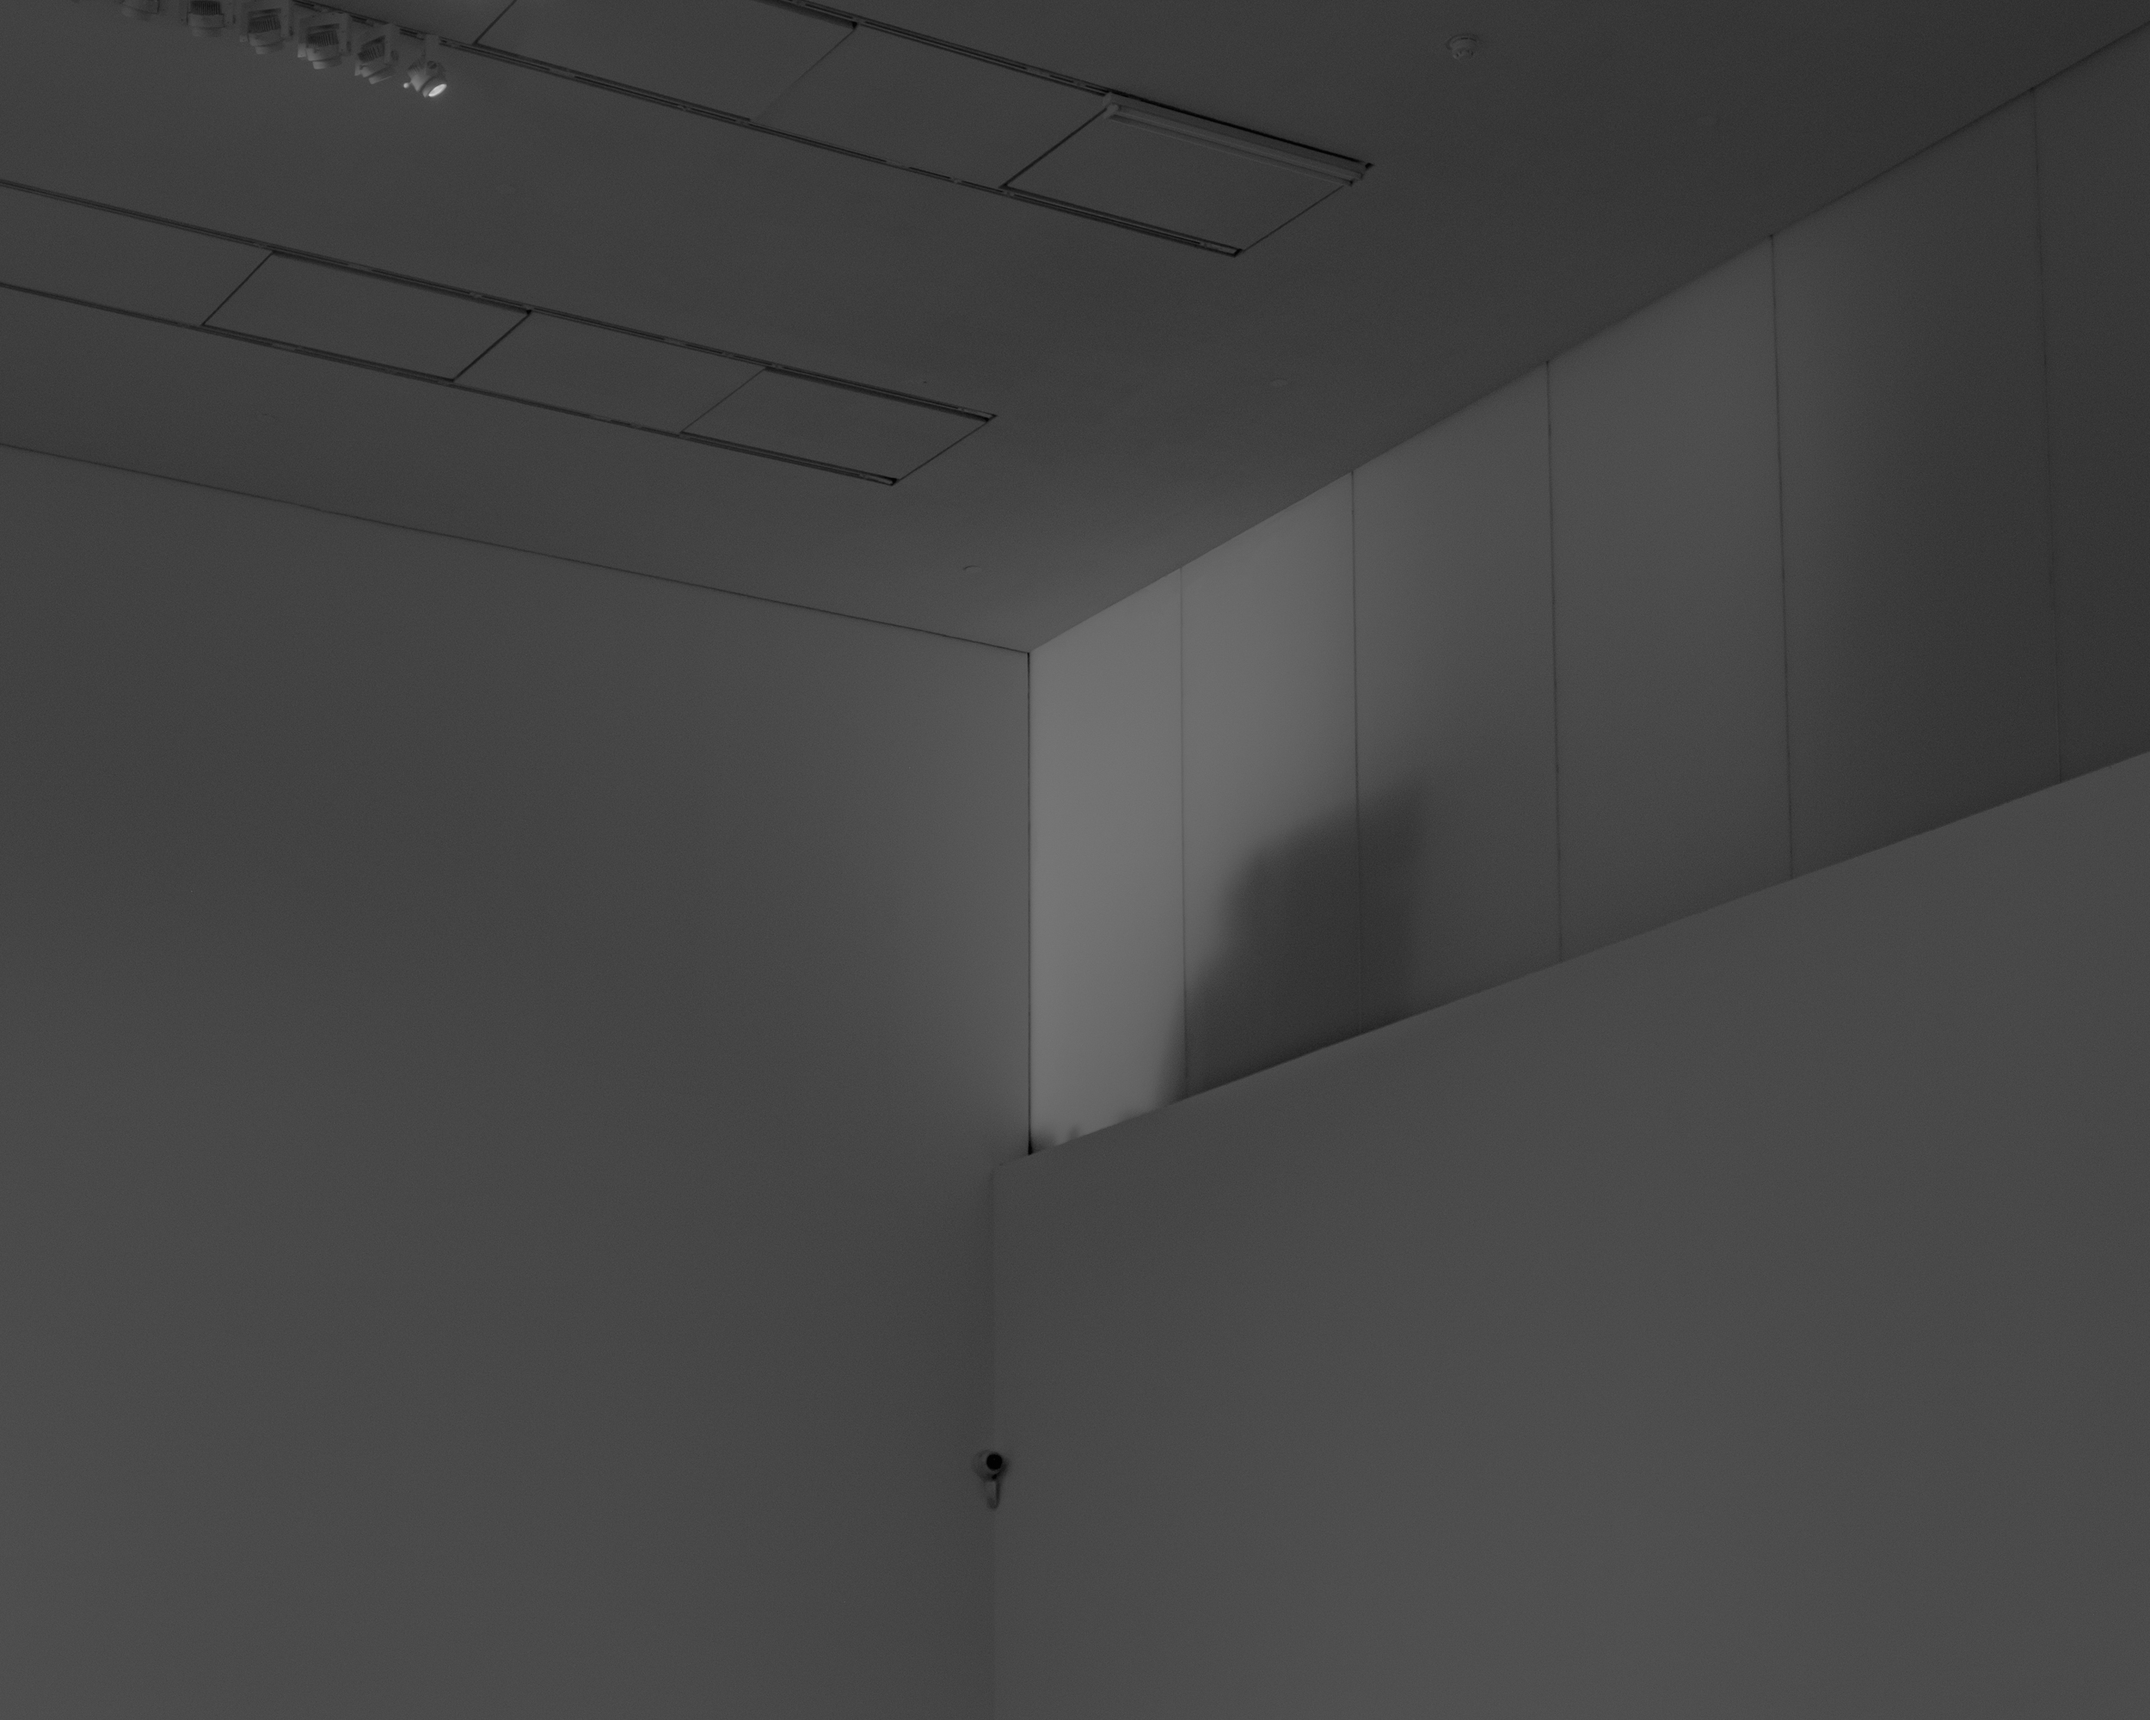
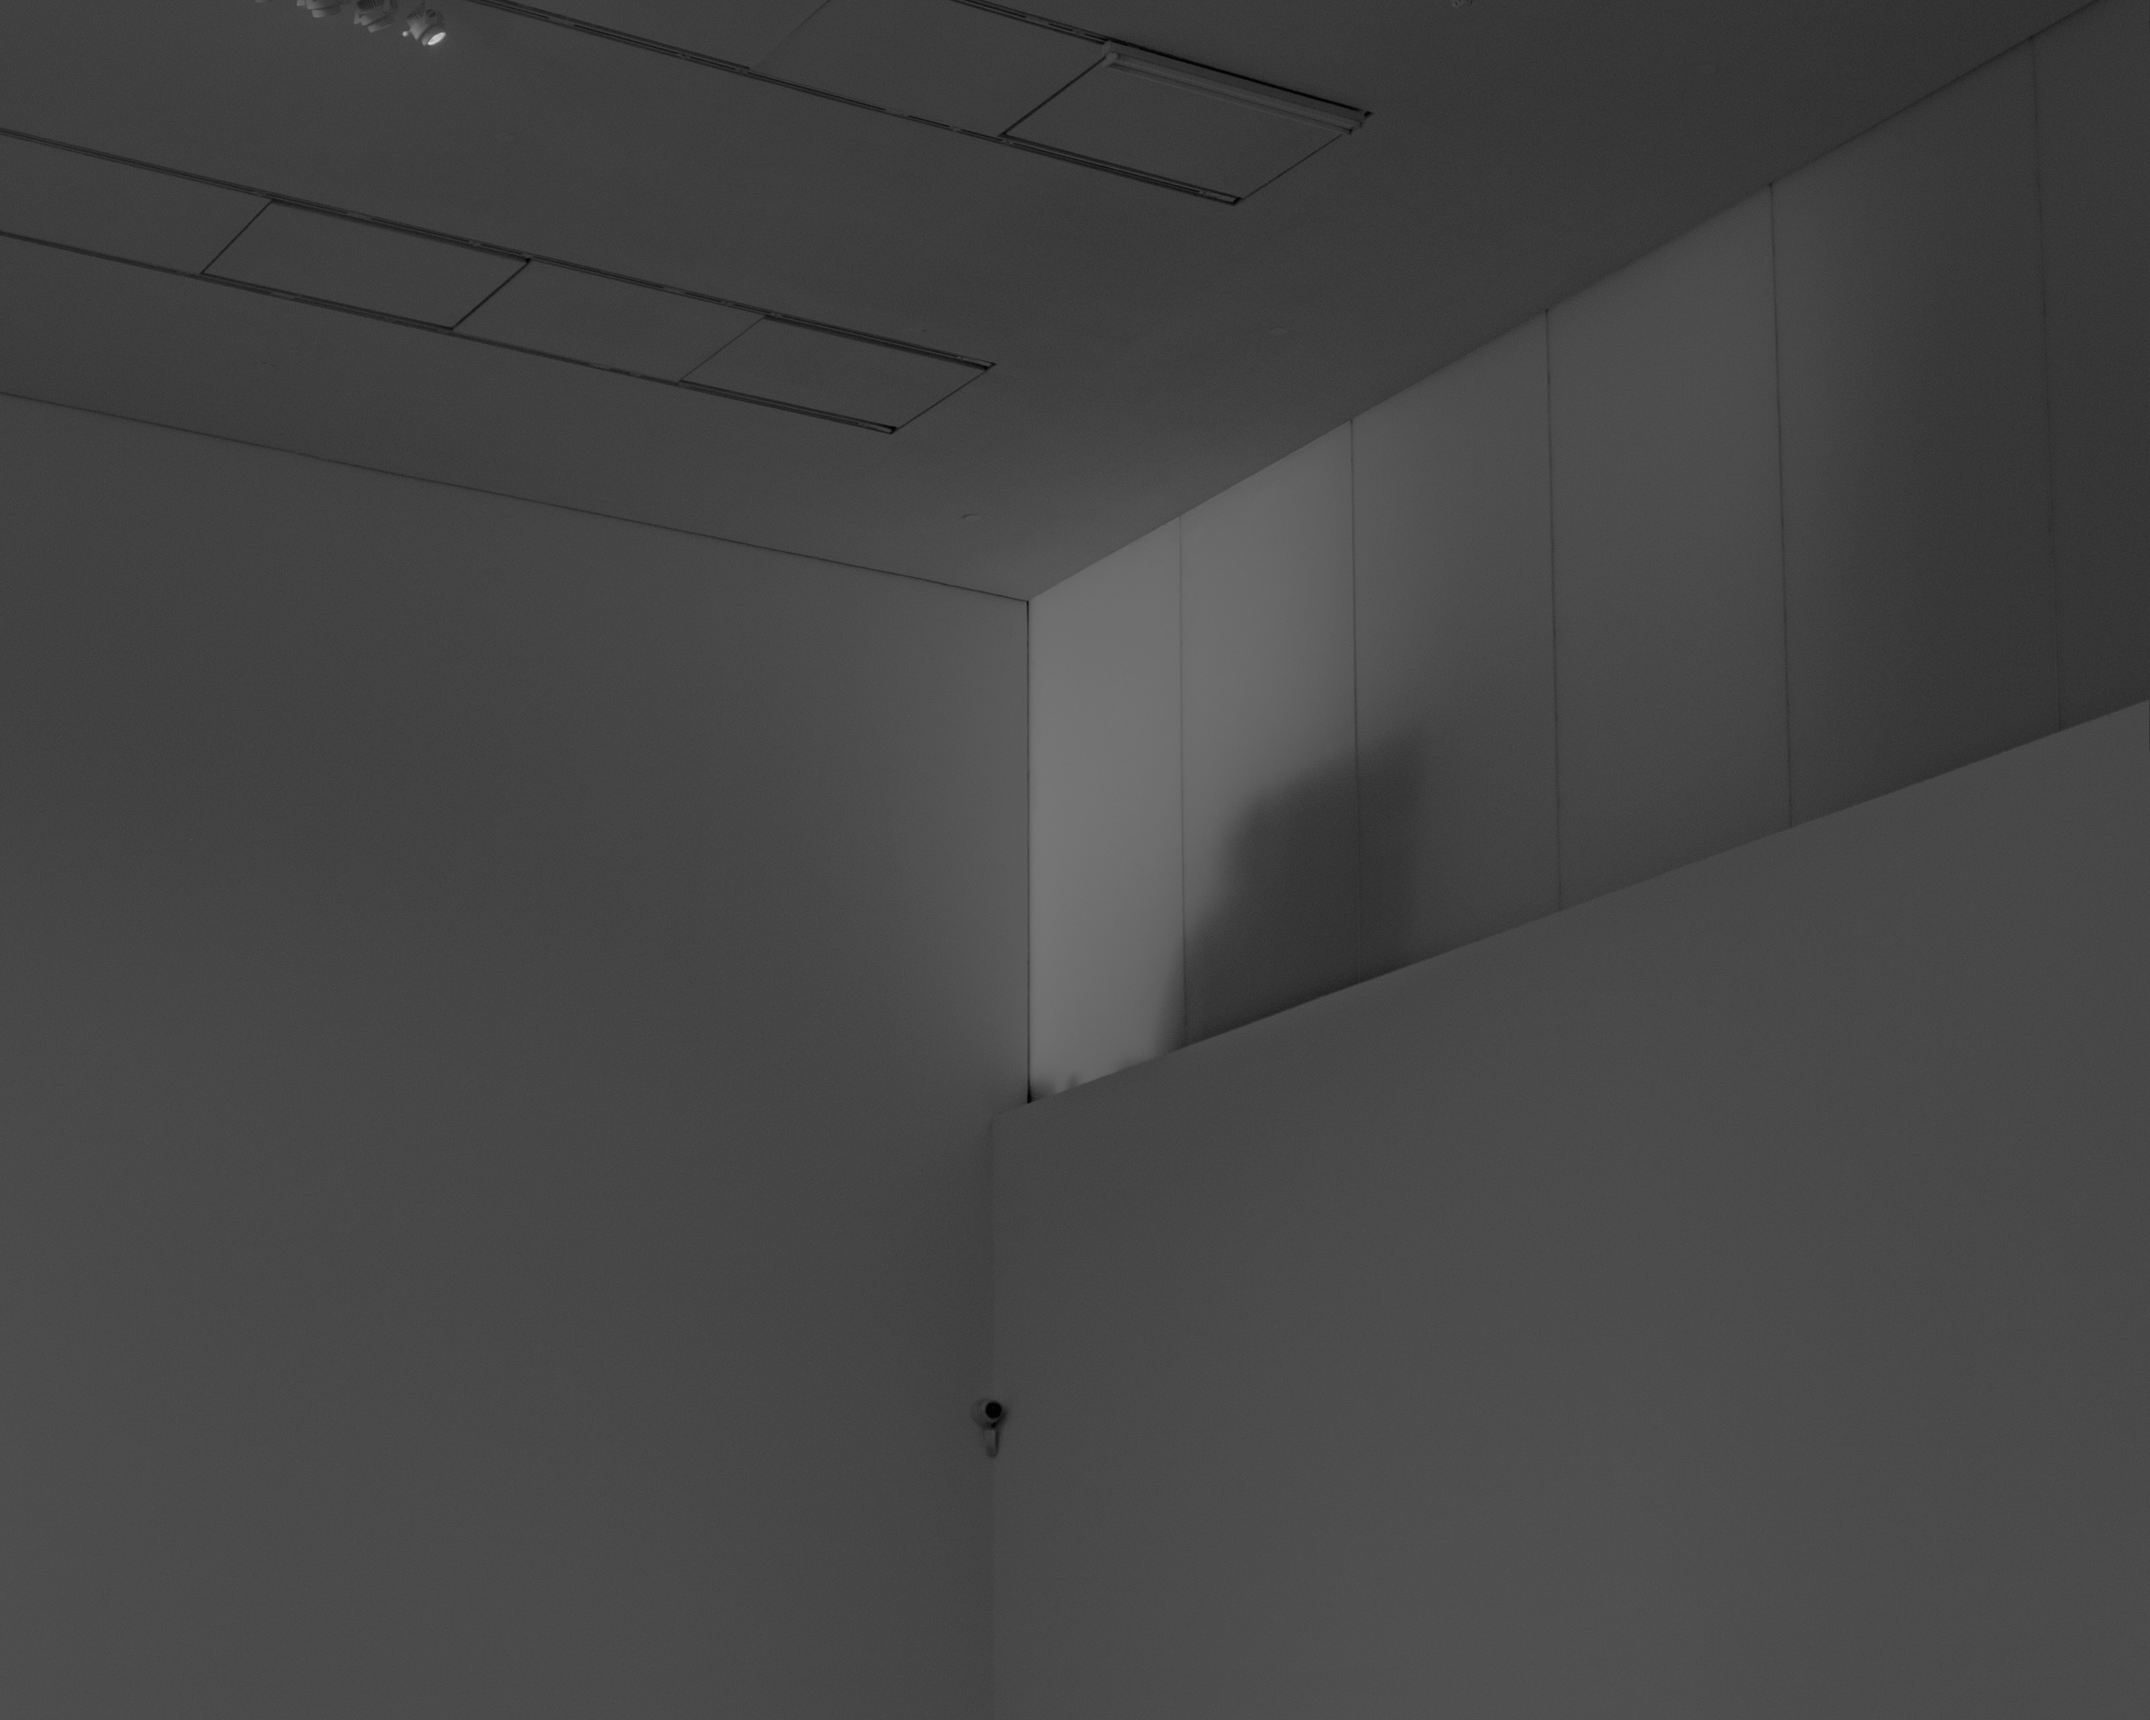
ver18.2

diff --git a/data.js b/data.js
@@ -36,11 +36,16 @@ const PROJECT_DATA = {
         { project: "Landscape, Asia", id: "srilanka-3386", src: "images/Personal/Personal_SriLanka-3386.jpg", cap: "Landscape, Asia-012" },
         { project: "Landscape, Asia", id: "srilanka-3345", src: "images/Personal/Personal_SriLanka-3345.jpg", cap: "Landscape, Asia-013" },
 
-        { project: "Landscape, Europe", id: "germany-4653", src: "images/Personal/Germany-4653.jpg", cap: "Landscape, Europe-001" },
         { project: "Landscape, Europe", id: "germany-4667", src: "images/Personal/Germany-4667.jpg", cap: "Architecture, Europe-001" },
         { project: "Landscape, Europe", id: "germany-4686", src: "images/Personal/Germany-4686.jpg", cap: "Architecture, Europe-002" },
         { project: "Landscape, Europe", id: "germany-4699", src: "images/Personal/Germany-4699.jpg", cap: "Architecture, Europe-003" },
+        { project: "Landscape, Europe", id: "germany-4699", src: "images/Personal/UK-4309-002.jpg", cap: "Architecture, Europe-004" },
+        { project: "Landscape, Europe", id: "germany-4699", src: "images/Personal/UK-4331-004.jpg", cap: "Architecture, Europe-005" },
+        { project: "Landscape, Europe", id: "germany-4699", src: "images/Personal/UK-4333-005.jpg", cap: "Architecture, Europe-006" },
+        { project: "Landscape, Europe", id: "germany-4699", src: "images/Personal/UK-4342-006.jpg", cap: "Architecture, Europe-007" },
+        { project: "Landscape, Europe", id: "germany-4699", src: "images/Personal/UK-4357-007.jpg", cap: "Architecture, Europe-008" },
 
+        { project: "Landscape, Europe", id: "germany-4653", src: "images/Personal/Germany-4653.jpg", cap: "Landscape, Europe-001" },
         { project: "Landscape, Europe", id: "UK-4389", src: "images/Personal/UK-4389.jpg", cap: "Landscape, Europe-002" },
         { project: "Landscape, Europe", id: "UK-4409", src: "images/Personal/UK-4409.jpg", cap: "Landscape, Europe-003" },
         { project: "Landscape, Europe", id: "UK-4416", src: "images/Personal/UK-4416.jpg", cap: "Landscape, Europe-004" },
@@ -50,14 +55,35 @@ const PROJECT_DATA = {
         { project: "Landscape, Europe", id: "UK-4397", src: "images/Personal/UK-4397.jpg", cap: "Landscape, Europe-008" },
         { project: "Landscape, Europe", id: "UK-4439", src: "images/Personal/UK-4439.jpg", cap: "Landscape, Europe-009" },
         { project: "Landscape, Europe", id: "UK-4490", src: "images/Personal/UK-4490.jpg", cap: "Landscape, Europe-010" },
-        { project: "Landscape, Europe", id: "UK-4496", src: "images/Personal/UK-4496.jpg", cap: "Landscape, Europe-011" }
+        { project: "Landscape, Europe", id: "UK-4386", src: "images/Personal/UK-4386-008.jpg", cap: "Landscape, Europe-011" },
+
+        { project: "Landscape, Japan", id: "Kamikouchi-0005", src: "images/Personal/Kamikouchi-0005-020.jpg", cap: "Landscape, Japan-001" },
+        { project: "Landscape, Japan", id: "Kamikouchi-0013", src: "images/Personal/Kamikouchi-0013-021.jpg", cap: "Landscape, Japan-002" },
+        { project: "Landscape, Japan", id: "Kamikouchi-9583", src: "images/Personal/Kamikouchi-9583-003.jpg", cap: "Landscape, Japan-003" },
+        { project: "Landscape, Japan", id: "Kamikouchi-9656", src: "images/Personal/Kamikouchi-9656-005.jpg", cap: "Landscape, Japan-004" },
+        { project: "Landscape, Japan", id: "Kamikouchi-9675", src: "images/Personal/Kamikouchi-9675-009.jpg", cap: "Landscape, Japan-005" },
+        { project: "Landscape, Japan", id: "Kamikouchi-9713", src: "images/Personal/Kamikouchi-9713-014.jpg", cap: "Landscape, Japan-006" },
+        { project: "Landscape, Japan", id: "Kamikouchi-4789", src: "images/Personal/Kirigamine-4789-004.jpg", cap: "Landscape, Japan-007" },
+        { project: "Landscape, Japan", id: "Kamikouchi-4830", src: "images/Personal/Kirigamine-4830-006.jpg", cap: "Landscape, Japan-008" },
+
+        { project: "Dessau", id: "Dessau-11", src: "images/Personal/trip-to-europe-11.jpg", cap: "Dessau-001" },
+        { project: "Dessau", id: "Dessau-13", src: "images/Personal/trip-to-europe-13.jpg", cap: "Dessau-002" },
+        { project: "Dessau", id: "Dessau-14", src: "images/Personal/trip-to-europe-14.jpg", cap: "Dessau-003" },
+        { project: "Dessau", id: "Dessau-16", src: "images/Personal/trip-to-europe-16.jpg", cap: "Dessau-004" },
+        { project: "Dessau", id: "Dessau-19", src: "images/Personal/trip-to-europe-19.jpg", cap: "Dessau-005" }
+
+
     ],
     commissioned: [
         { project: "Tentative, Echoes", id: "Echoes_Eye", src: "images/Commissioned/Echoes_Eye.jpg", cap: "Vol.1 Eye" },
-        { project: "Tentative, Echoes", id: "Echoes_Ear-2", src: "images/Commissioned/Echoes_Ear-2.jpg", cap: "Vol.1 Ear" },        
+        { project: "Tentative, Echoes", id: "Echoes_Ear-2", src: "images/Commissioned/Echoes_Ear-2.jpg", cap: "Vol.1 Ear" },   
+
         { project: "Popeye Web, Japanese Breakfast", id: "Popeye_JB_001", src: "images/Commissioned/Popeye_JapaneseBreakfast-0327.jpg", cap: "Japanese Breakfast-001" },
         { project: "Popeye Web, Japanese Breakfast", id: "Popeye_JB_002", src: "images/Commissioned/Popeye_JapaneseBreakfast-0431.jpg", cap: "Japanese Breakfast-002" },
         { project: "Popeye Web, Japanese Breakfast", id: "Popeye_JB_003", src: "images/Commissioned/Popeye_JapaneseBreakfast-0468.jpg", cap: "Japanese Breakfast-003" },
+        { project: "Popeye Web, Japanese Breakfast", id: "Popeye_JB_004", src: "images/Commissioned/Popeye_JapaneseBreakfast-0436.jpg", cap: "Japanese Breakfast-004" },
+        { project: "Popeye Web, Japanese Breakfast", id: "Popeye_JB_005", src: "images/Commissioned/Popeye_JapaneseBreakfast-0456.jpg", cap: "Japanese Breakfast-005" },
+
         { project: "OAO 2026 Spring-Summer Preview", id: "OAO_001", src: "images/Commissioned/OAO-Exhibition-4310.jpg", cap: "OAO 2026 Spring/Summer Preview-001" },
         { project: "OAO 2026 Spring-Summer Preview", id: "OAO_002", src: "images/Commissioned/OAO-Exhibition-4343.jpg", cap: "OAO 2026 Spring/Summer Preview-002" },
         { project: "OAO 2026 Spring-Summer Preview", id: "OAO_003", src: "images/Commissioned/OAO-Exhibition-4398.jpg", cap: "OAO 2026 Spring/Summer Preview-003" },
@@ -67,10 +93,10 @@ const PROJECT_DATA = {
         { project: "OAO 2026 Spring-Summer Preview", id: "OAO_007", src: "images/Commissioned/OAO-Exhibition-4509.jpg", cap: "OAO 2026 Spring/Summer Preview-007" },
         { project: "OAO 2026 Spring-Summer Preview", id: "OAO_008", src: "images/Commissioned/OAO-Exhibition-4538.jpg", cap: "OAO 2026 Spring/Summer Preview-008" },
 
-        { project: "Kan Izumi, New Balance Grays", id: "Kan Izumi New Balance Grays-0172", src: "images/Commissioned/NewBalance-GrayDays_DSCF0172.jpg", cap: "Kan Izumi, New Balance Grays-001" },
-        { project: "Kan Izumi, New Balance Grays", id: "Kan Izumi New Balance Grays-0224", src: "images/Commissioned/NewBalance-GrayDays_DSCF0224.jpg", cap: "Kan Izumi, New Balance Grays-002" },
-        { project: "Kan Izumi, New Balance Grays", id: "Kan Izumi New Balance Grays-0230", src: "images/Commissioned/NewBalance-GrayDays_DSCF0230.jpg", cap: "Kan Izumi, New Balance Grays-003" },
-        { project: "Kan Izumi, New Balance Grays", id: "Kan Izumi New Balance Grays-0235", src: "images/Commissioned/NewBalance-GrayDays_DSCF0235.jpg", cap: "Kan Izumi, New Balance Grays-004" },
+        { project: "Kan Izumi, New Balance Gray Days", id: "Kan Izumi New Balance Grays-0172", src: "images/Commissioned/NewBalance-GrayDays_DSCF0172.jpg", cap: "Kan Izumi, New Balance Gray Days-001" },
+        { project: "Kan Izumi, New Balance Gray Days", id: "Kan Izumi New Balance Grays-0224", src: "images/Commissioned/NewBalance-GrayDays_DSCF0224.jpg", cap: "Kan Izumi, New Balance Gray Days-002" },
+        { project: "Kan Izumi, New Balance Gray Days", id: "Kan Izumi New Balance Grays-0230", src: "images/Commissioned/NewBalance-GrayDays_DSCF0230.jpg", cap: "Kan Izumi, New Balance Gray Days-003" },
+        { project: "Kan Izumi, New Balance Gray Days", id: "Kan Izumi New Balance Grays-0235", src: "images/Commissioned/NewBalance-GrayDays_DSCF0235.jpg", cap: "Kan Izumi, New Balance Gray Days-004" },
 
         { project: "Perfume Oil Factory", id: "POF-1", src: "images/Commissioned/POF-1.jpg", cap: "Perfume Oil Factory-001" },
         { project: "Perfume Oil Factory", id: "POF-2", src: "images/Commissioned/POF-2.jpg", cap: "Perfume Oil Factory-002" },

diff --git a/script.js b/script.js
@@ -43,7 +43,7 @@ let homeSlideTimer = null;
 const rawData = [...PROJECT_DATA.personal, ...PROJECT_DATA.commissioned];
 
 // 2. 先頭に固定したい画像のIDを指定
-const firstImageId = 'Stones-4656'; 
+const firstImageId = 'Goto-108'; 
 
 // 3. 指定したIDの画像を探し、それ以外と分ける
 const firstImg = rawData.find(img => img.id === firstImageId);
